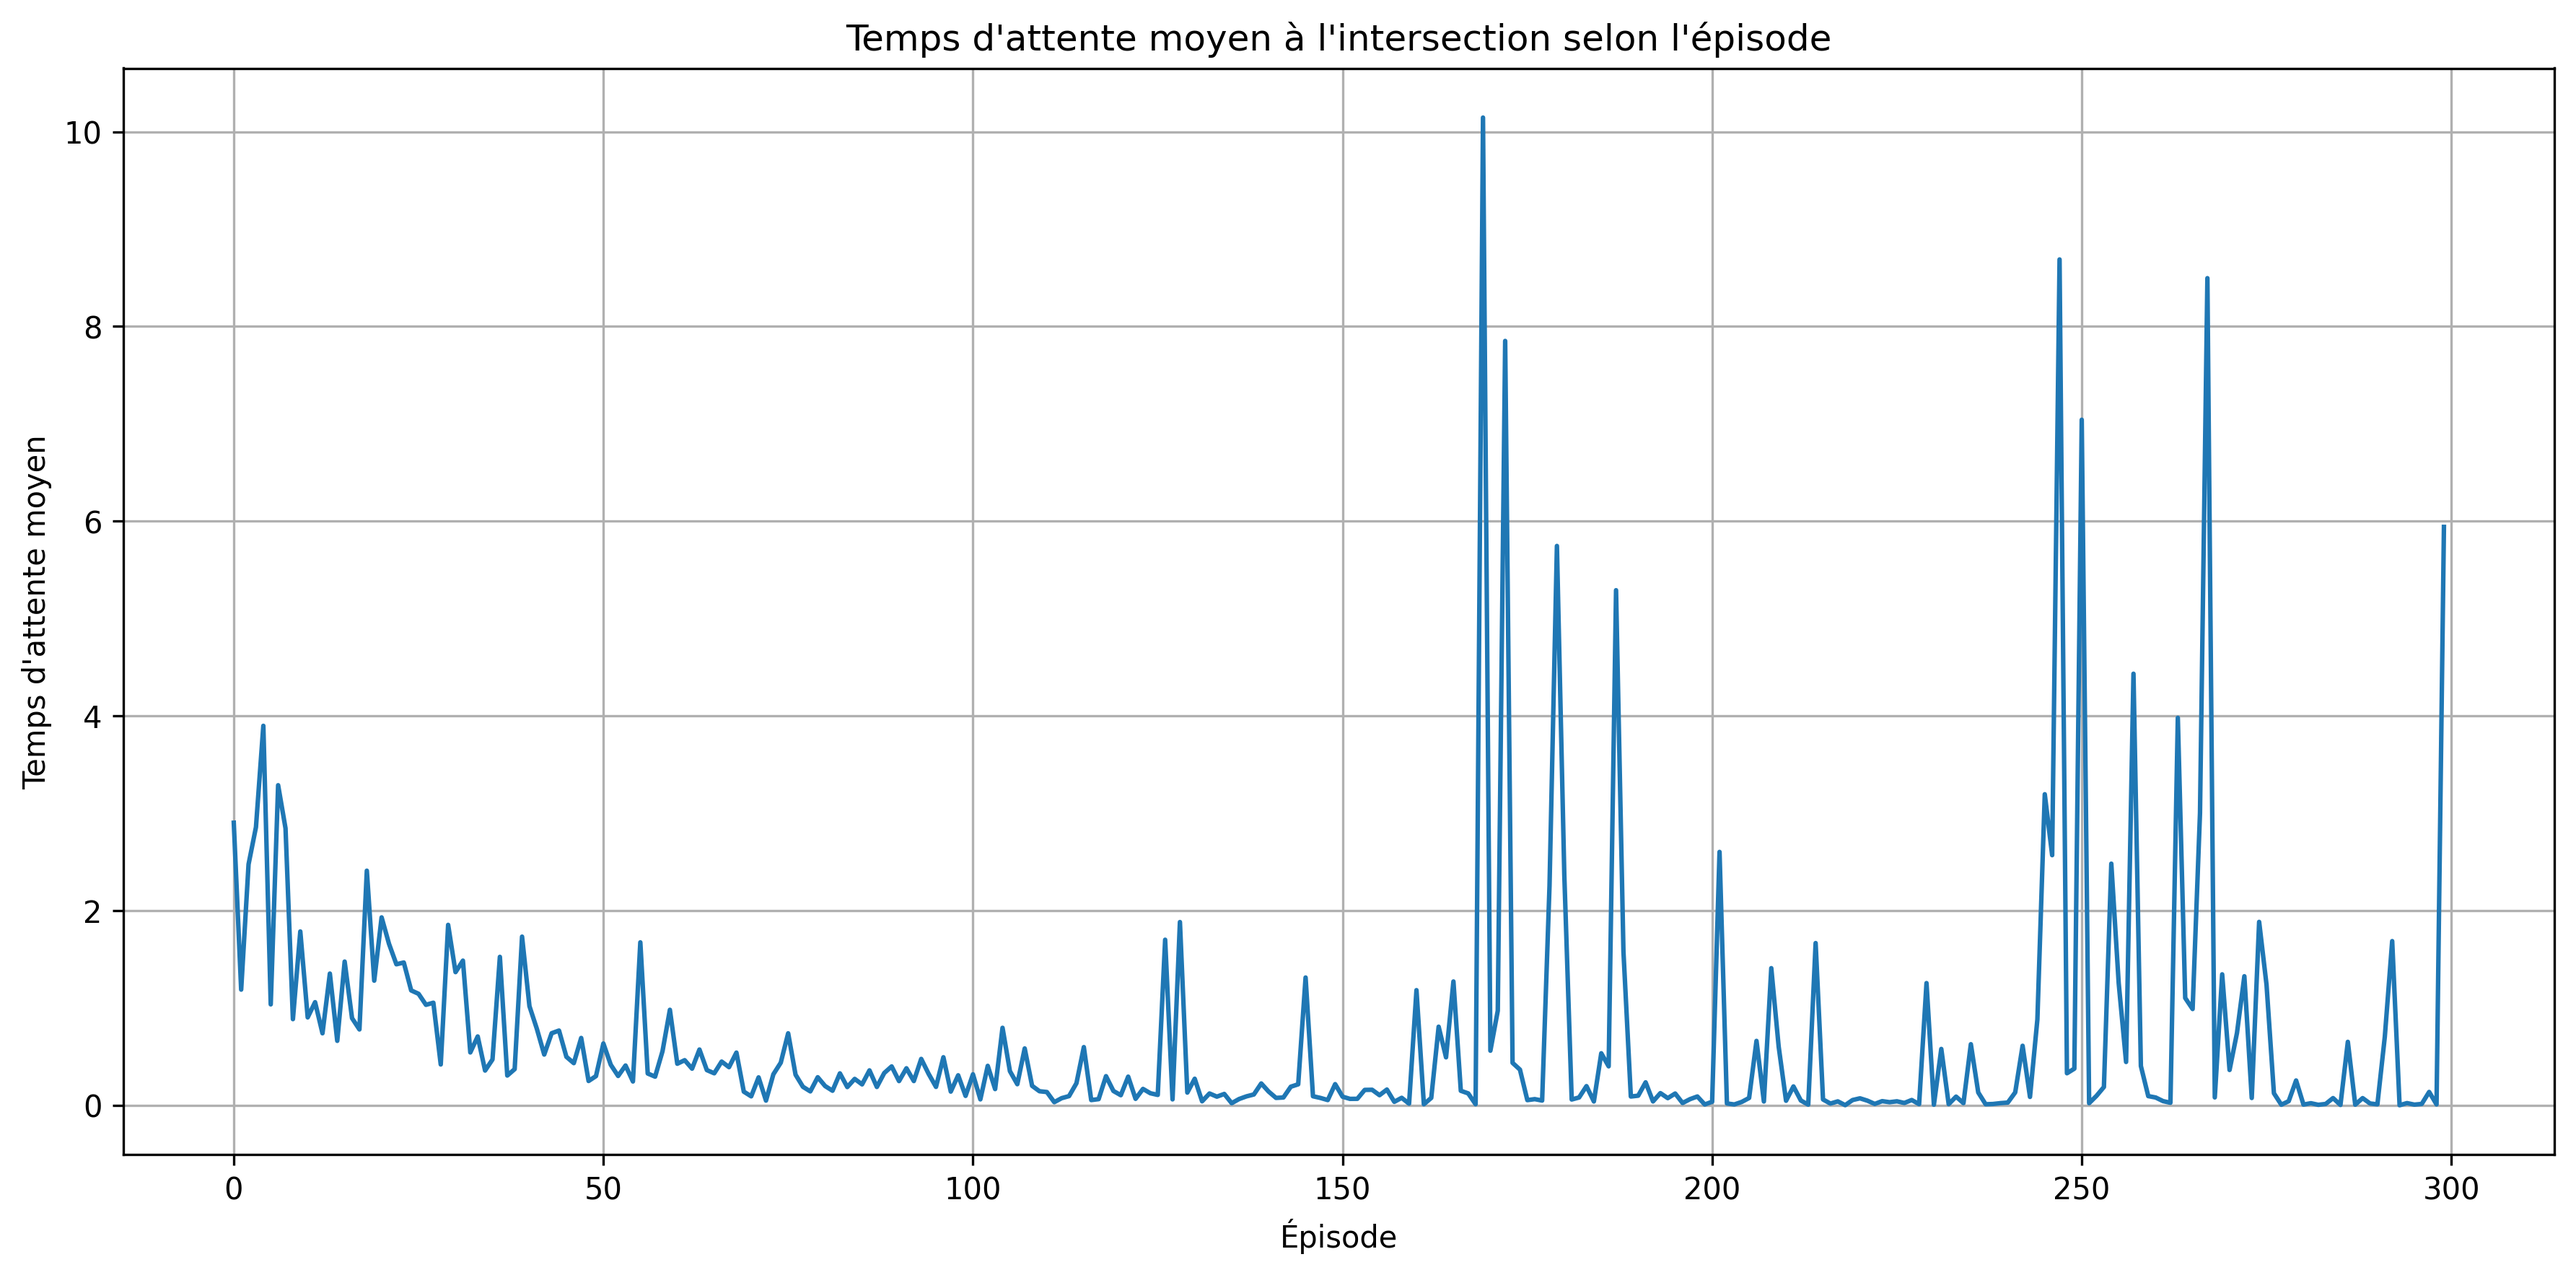
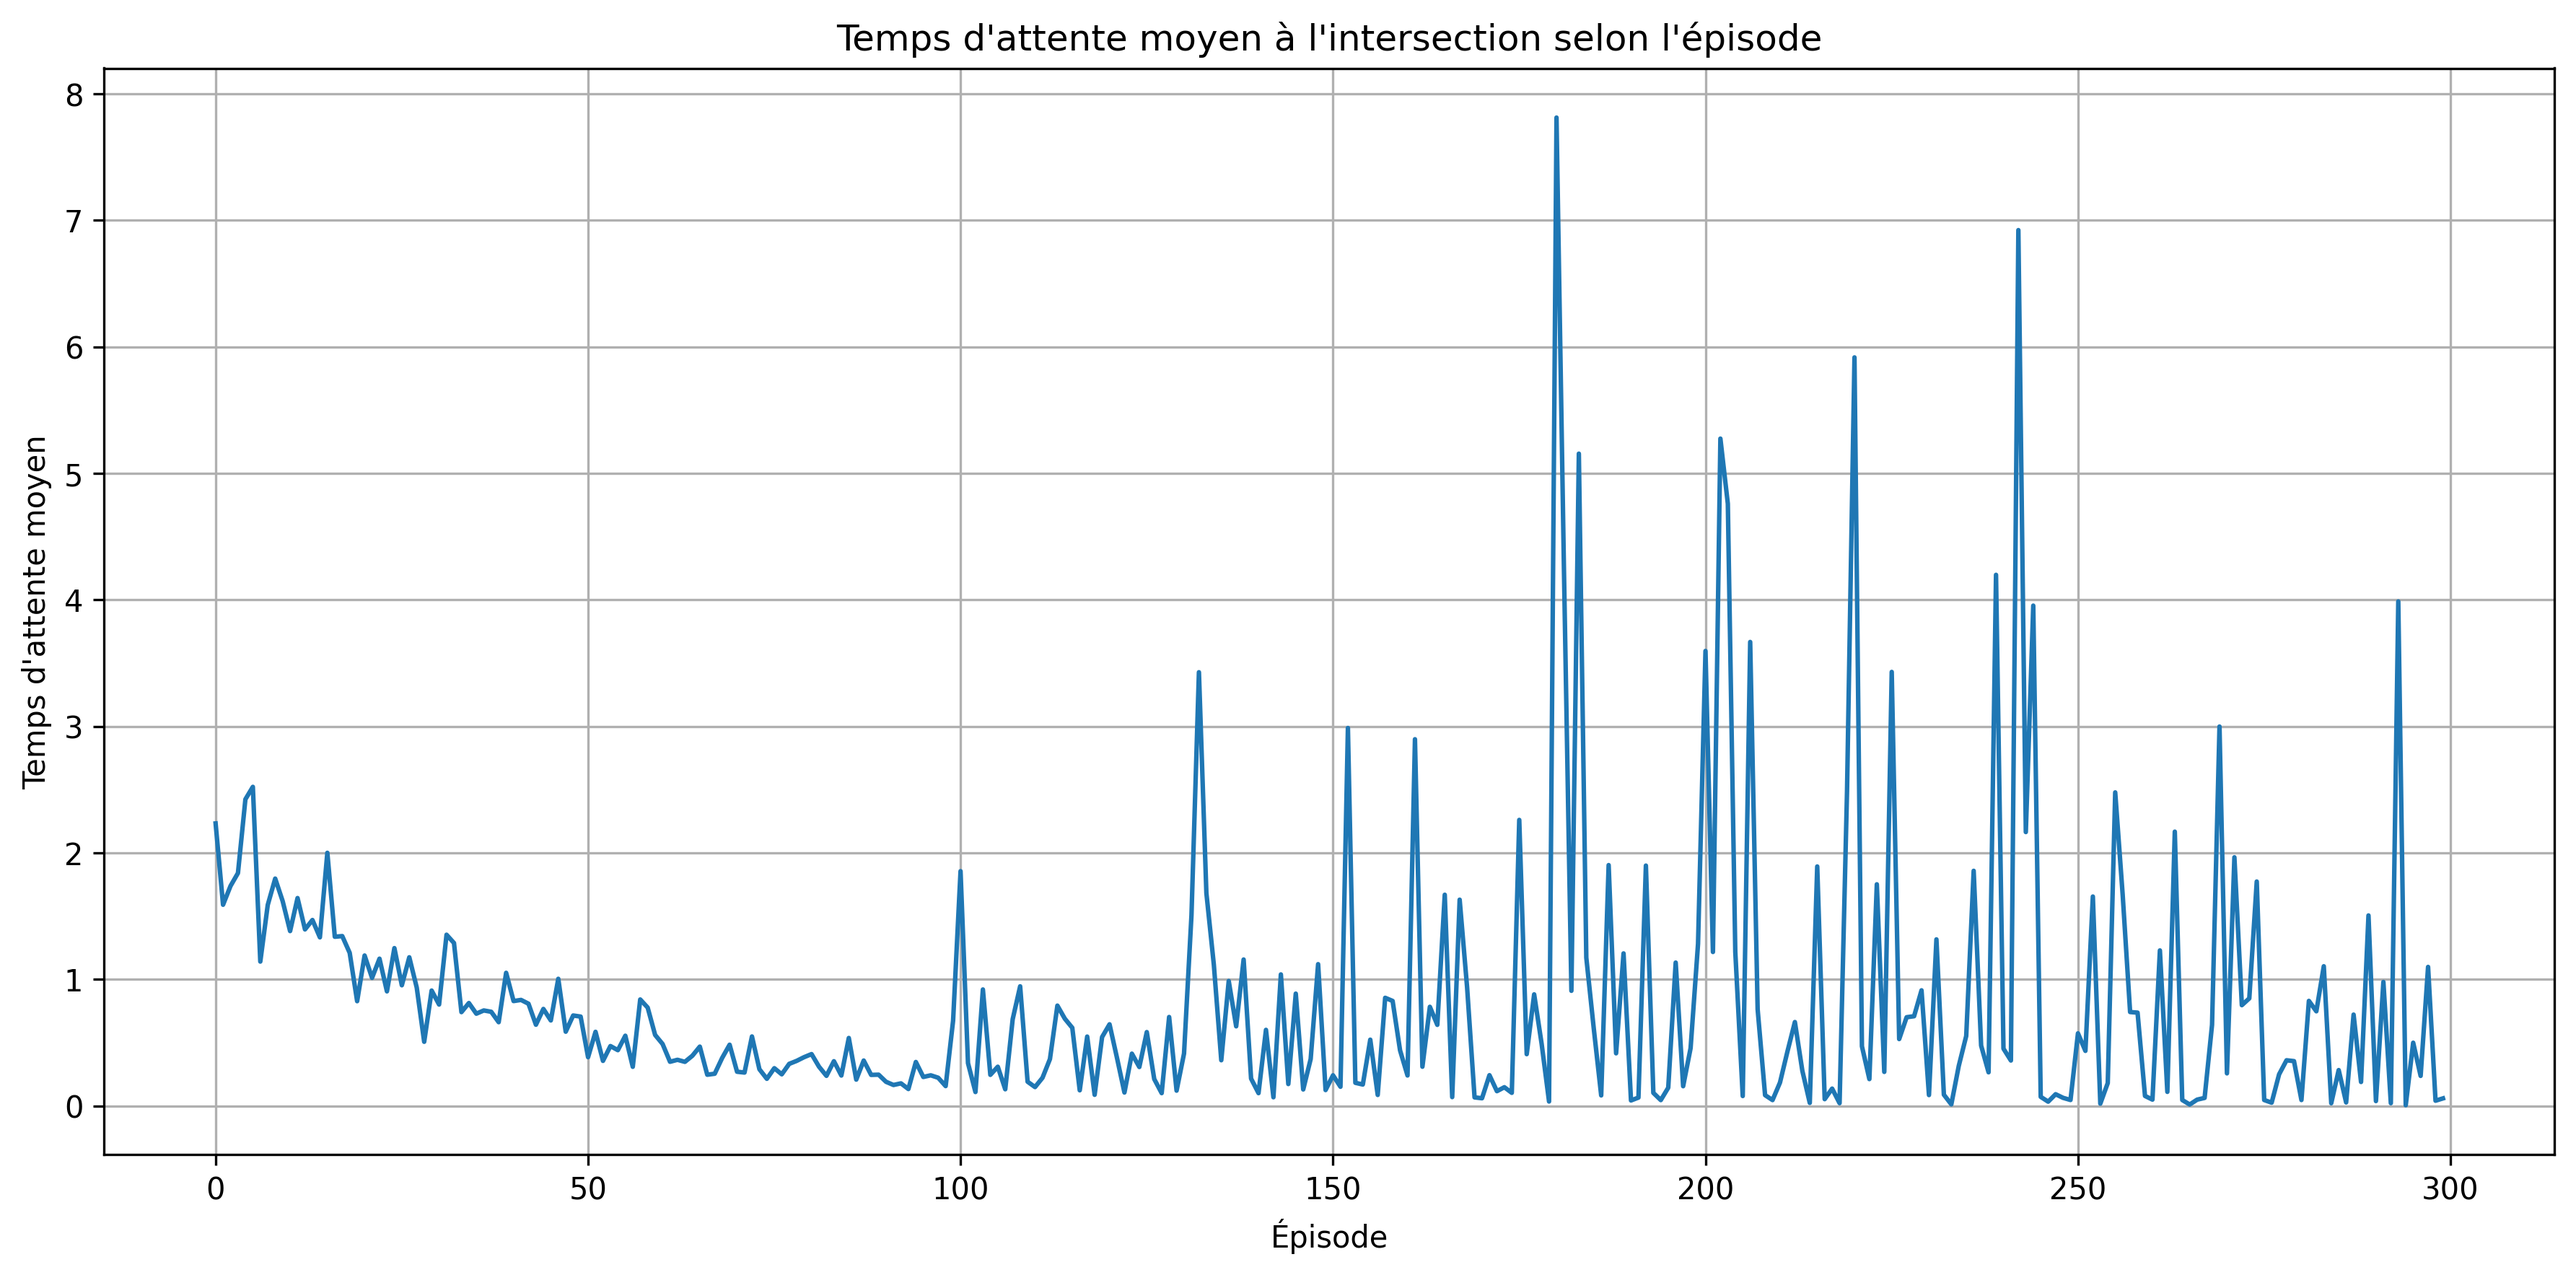
Fix lumières qui ne changent pu de couleur après un moment C'est quil faut augmenter le seuil de passed_cars par épisode

diff --git a/simauto/intersection.py b/simauto/intersection.py
@@ -86,7 +86,7 @@ class IntersectionEnv(gym.Env):
 
         self.mean_waits = []
 
-        self.episode_end_threshold = 100 # in numbers of cars passed
+        self.episode_end_threshold = 1000 # in numbers of cars passed
 
         self.action_space = spaces.Discrete(6)
         self.observation_space = gym.spaces.Dict({
